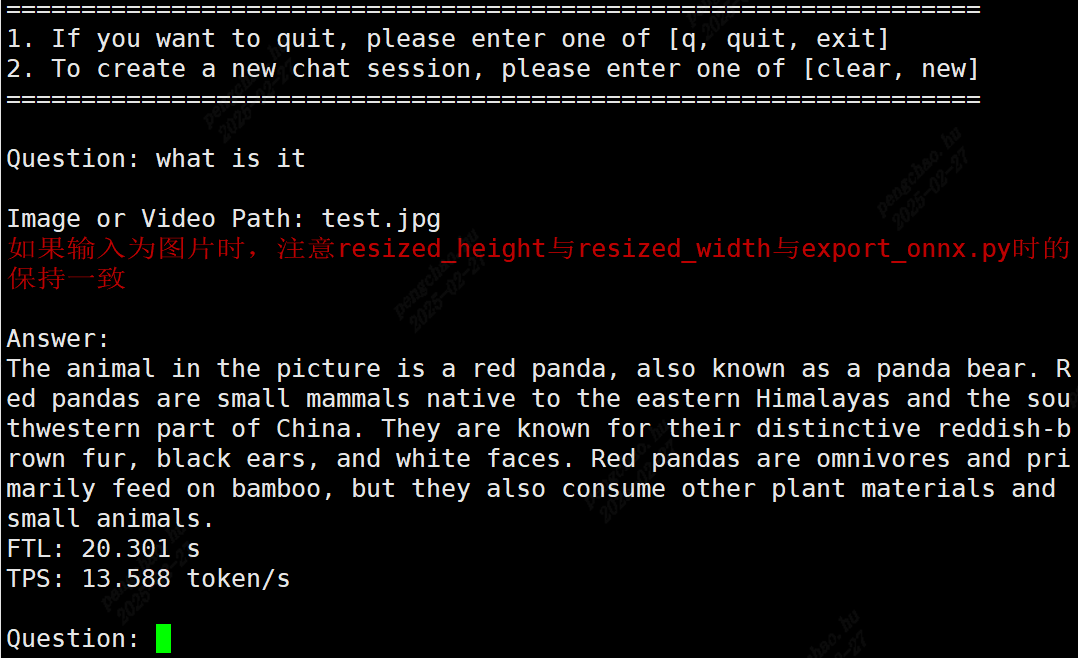
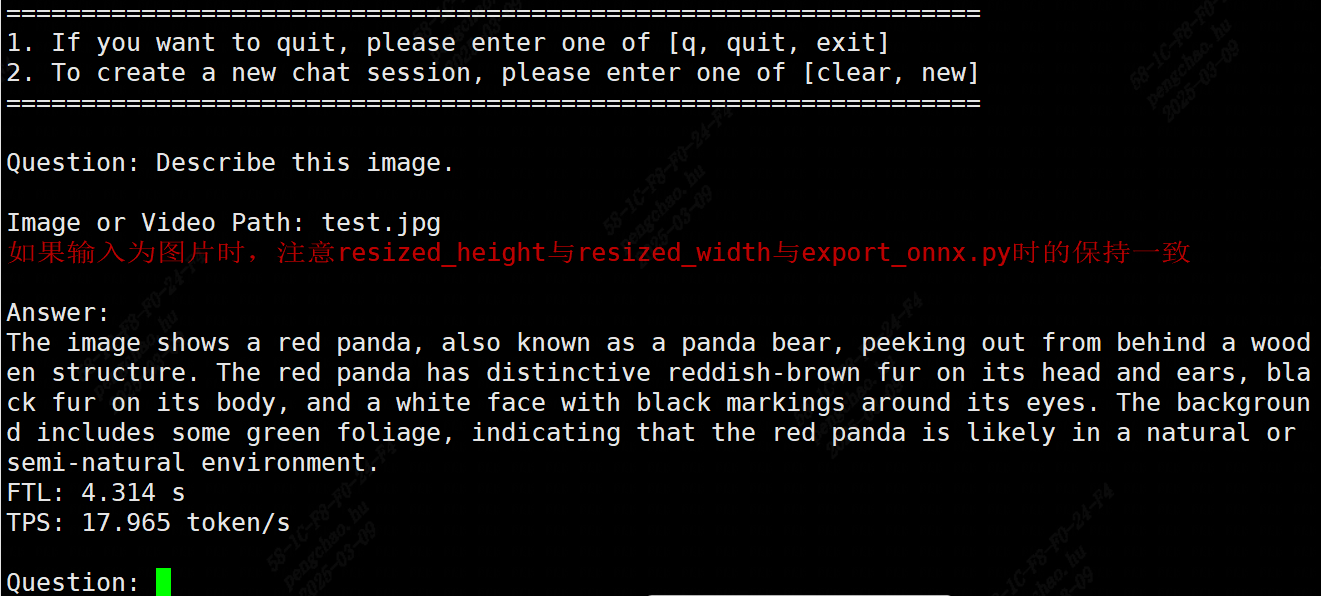
add qwen2.5vl 2k bmodel

diff --git a/models/Qwen2_5_VL/python_demo/pipeline.py b/models/Qwen2_5_VL/python_demo/pipeline.py
@@ -20,8 +20,8 @@ class Qwen2VL():
         self.tokenizer = self.processor.tokenizer
         with open(config_file, 'r') as f:
             self.config = json.load(f)
-        self.resized_height = args.resized_height
-        self.resized_width = args.resized_width
+        self.resized_height = args.resize[0]
+        self.resized_width = args.resize[1]
 
         # load model
         self.model = chat.Qwen2VL()
@@ -45,23 +45,38 @@ class Qwen2VL():
         return messages
 
     def image_message(self, path):
-        print("\033[31m如果输入为图片时，注意resized_height与resized_width与export_onnx.py时的保持一致\033[0m")
-        messages = [{
-            "role":
-            "user",
-            "content": [
-                {
-                    "type": "image",
-                    "image": path,
-                    "resized_height": self.resized_height,
-                    "resized_width": self.resized_width,
-                },
-                {
-                    "type": "text",
-                    "text": self.input_str
-                },
-            ],
-        }]
+        if self.resized_height != 0 and self.resized_width != 0:
+            messages = [{
+                "role":
+                "user",
+                "content": [
+                    {
+                        "type": "image",
+                        "image": path,
+                        "resized_height": self.resized_height,
+                        "resized_width": self.resized_width,
+                    },
+                    {
+                        "type": "text",
+                        "text": self.input_str
+                    },
+                ],
+            }]
+        else:
+            messages = [{
+                "role":
+                "user",
+                "content": [
+                    {
+                        "type": "image",
+                        "image": path,
+                    },
+                    {
+                        "type": "text",
+                        "text": self.input_str
+                    },
+                ],
+            }]
         return messages
 
     def video_message(self, path):
@@ -168,7 +183,8 @@ class Qwen2VL():
                     inputs.video_grid_thw.squeeze(0).tolist(), vit_offset, valid_vit_length)
             else:
                 empty = []
-                token = self.model.forward_first(inputs.input_ids.squeeze(0).tolist(), empty, [], 0, 0)
+                token = self.model.forward_first(
+                    inputs.input_ids.squeeze(0).tolist(), empty, [], 0, 0)
             first_end = time.time()
             tok_num = 1
             # Following tokens
@@ -208,13 +224,18 @@ if __name__ == "__main__":
                         type=str,
                         required=True,
                         help='path to the bmodel file')
-    parser.add_argument('-p',
+    parser.add_argument('-c',
                         '--config_path',
                         type=str,
-                        default="../support/processor_config",
+                        default="config",
                         help='path to the processor file')
     parser.add_argument('-d', '--devid', type=int, default=0, help='device ID to use')
-    parser.add_argument('--resized_height', type=int, default=280, help='resized height')
-    parser.add_argument('--resized_width', type=int, default=420, help='resized width')
+    parser.add_argument('-r',
+                        '--resize',
+                        nargs=2,
+                        type=int,
+                        default=[280, 420],
+                        metavar=('HEIGHT', 'WIDTH'),
+                        help='resized height and width, for example: --resize 280 420')
     args = parser.parse_args()
     main(args)

diff --git a/models/Qwen2_5_VL/compile/export_onnx.py b/models/Qwen2_5_VL/compile/export_onnx.py
@@ -205,7 +205,7 @@ def convert_vision_transformer():
     # make input
     x = torch.randn(max_pixels, 1176).to(dtype=torch.float32, device=device)
     position_ids = torch.randn(max_pixels, 2).to(dtype=torch.int32, device=device)
-    attention_mask = torch.zeros([1, max_pixels, max_pixels], device=device, dtype=torch.float32)
+    attention_mask = torch.zeros([1, 1, max_pixels, max_pixels], device=device, dtype=torch.float32)
 
     # export onnx
     model = VisionTransformer()
@@ -371,7 +371,7 @@ def vit_launch(pixel_values, grid_thw):
     vit_infer = VisionTransformer()
     cu_seqlens = [h * w * i for i in range(t+1)]
     attention_mask = torch.full(
-        [1, pixel_values.shape[0], pixel_values.shape[0]], -10000, device=device, dtype=torch.float32
+        [1, 1, pixel_values.shape[0], pixel_values.shape[0]], -10000, device=device, dtype=torch.float32
     )
     for i in range(1, len(cu_seqlens)):
         attention_mask[..., cu_seqlens[i - 1] : cu_seqlens[i], cu_seqlens[i - 1] : cu_seqlens[i]] = 0
@@ -561,7 +561,7 @@ if __name__ == "__main__":
     parser.add_argument('-m', '--model_path', type=str, help='path to the torch model')
     parser.add_argument('-d', '--device', type=str, choices=["cpu", "cuda"], default="cpu")
     parser.add_argument('-b', '--batch_size', type=int, default=1, help='batch size')
-    parser.add_argument('-s', '--seq_length', type=int, default=8192, help="sequence length")
+    parser.add_argument('-s', '--seq_length', type=int, default=2048, help="sequence length")
     parser.add_argument('-i', '--vision_length', type=int,default=600, help="vision_length = max_image_width // patch_size * max_image_height // patch_size")
     parser.add_argument('-n', '--num_threads', type=int, default=1, help='The number of threads used for torch if device is cpu')
     args = parser.parse_args()

diff --git a/models/Qwen2_5_VL/README.md b/models/Qwen2_5_VL/README.md
@@ -2,6 +2,16 @@
 
 本工程实现BM1684X部署多模态大模型[Qwen2.5-VL](https://huggingface.co/Qwen/Qwen2.5-VL-3B-Instruct)。通过[TPU-MLIR](https://github.com/sophgo/tpu-mlir)编译器将模型转换成bmodel，并采用c++代码将其部署到BM1684X的PCIE环境，或者SoC环境。
 
+
+本文包括如何转换bmodel，和如何在BM1684X环境运行bmodel。如何转换bmodel环节可以省去，直接用以下链接下载：
+
+``` shell
+# 2K版本
+python3 -m dfss --url=open@sophgo.com:/ext_model_information/LLM/LLM-TPU/qwen2.5-vl-3b_w4bf16_seq2048.bmodel
+# 8K版本
+python3 -m dfss --url=open@sophgo.com:/ext_model_information/LLM/LLM-TPU/qwen2.5-vl-3b_w4bf16_seq8192.bmodel
+```
+
 ## 开发环境准备
 
 #### 1. 从Huggingface下载`Qwen2.5-VL-3B-Instruct`
@@ -17,9 +27,10 @@ git clone git@hf.co:Qwen/Qwen2.5-VL-3B-Instruct
 ```
 
 另外需要做一些模型源码上的修改：
-将`compile/files/Qwen2_5-VL-3B-Instruct/`下的文件替换`Qwen2.5-VL-3B-Instruct`中对应的文件。
+1. 修改`Qwen2_5-VL-3B-Instruct`的`config.json`中的`max_position_embeddings`改成想要的长度，比如2048
+2. 将`compile/files/Qwen2_5-VL-3B-Instruct/`中的`modeling_qwen2_5_vl.py`覆盖到transformers中，如下：
 ``` shell
-cp files/Qwen2_5-VL-3B-Instruct/modeling_qwen2_5_vl.py /usr/local/lib/python3.10/dist-packages/transformers/models/qwen2_5_vl/modeling_qwen2_5_vl.py
+cp files/Qwen2_5-VL-3B-Instruct/modeling_qwen2_5_vl.py /root/miniconda3/lib/python3.10/site-packages/transformers/models/qwen2_5_vl/modeling_qwen2_5_vl.py
 ```
 
 #### 2. 导出成onnx模型
@@ -29,16 +40,12 @@ cp files/Qwen2_5-VL-3B-Instruct/modeling_qwen2_5_vl.py /usr/local/lib/python3.10
 ``` shell
 # 导出onnx
 cd compile
-python3 export_onnx.py --model_path /path/to/Qwen2_5-VL-3B-Instruct --seq_length 8192
+python3 export_onnx.py --model_path /workspace/Qwen2.5-VL-3B-Instruct --seq_length 2048 --device cuda
 ```
 
 ## 编译模型
 
-此处介绍如何将onnx模型编译成bmodel。也可以省去编译模型这一步，直接下载编译好的模型：
-
-``` shell
-python3 -m dfss --url=open@sophgo.com:/ext_model_information/LLM/LLM-TPU/qwen2.5-vl-3b_w4bf16_seq8192.bmodel
-```
+此处介绍如何将onnx模型编译成bmodel。
 
 #### 1. 下载docker，启动容器
 
@@ -66,10 +73,11 @@ source ./envsetup.sh  #激活环境变量
 
 #### 3. 编译模型生成bmodel
 
-对ONNX模型进行编译，生成模型`qwen2.5-vl-3b_w4bf16_seq8192.bmodel `
+对ONNX模型进行编译，生成模型`qwen2.5-vl-3b_w4bf16_seq2048.bmodel `
 
 ``` shell
-./compile.sh --name qwen2-vl-2b --seq_length 8192
+cd compile
+./compile.sh --name qwen2.5-vl-3b --seq_length 2048
 ```
 
 ## 编译与运行程序
@@ -78,14 +86,14 @@ source ./envsetup.sh  #激活环境变量
 > （python_demo运行之前都需要执行这个）
 ``` shell
 sudo apt-get update
-sudo apt-get install pybind11-dev
+sudo apt-get install python3.10-dev pybind11-dev
 pip3 install torchvision pillow qwen_vl_utils transformers --upgrade
 ```
 
 编译库文件，生成`chat.cpython*.so`文件，将该文件拷贝到`pipeline.py`文件目录
 
 ``` shell
-cd python_demo_video
+cd python_demo
 mkdir build 
 cd build && cmake .. && make && cp *cpython* .. && cd ..
 ```
@@ -93,7 +101,7 @@ cd build && cmake .. && make && cp *cpython* .. && cd ..
 * python demo
 
 ``` shell
-python3 pipeline.py --model_path qwen2.5-vl-3b_w4bf16_seq8192.bmodel --config_path ../support/processor_config 
+python3 pipeline.py --model_path qwen2.5-vl-3b_w4bf16_seq2048.bmodel --config_path ../support/processor_config 
 ```
 model为实际的model储存路径；config_path为配置文件路径
 
@@ -103,9 +111,17 @@ model为实际的model储存路径；config_path为配置文件路径
 
 ## 常见问题
 
+#### 本实例模型如何确保INT4的精度？
+
+为了提高精度，本示例中的模型是从AWQ模型反量化而来。参考项目[llmc-tpu](https://github.com/sophgo/llmc-tpu)，
+在该项目的docker中，经过如下命令转换：
+``` shell
+python3 tpu/llm_dequant.py --pretrained_model_path /workspace/Qwen2.5-VL-3B-Instruct --quant_model_path /workspace/Qwen2.5-VL-3B-Instruct-AWQ --model_type qwen2.5_vl --use_cpu
+```
+
 #### 是否支持Qwen2_5-VL-7B ?
 
 是支持的，步骤基本一致。
 1. 将`files/Qwen2_5-VL-7B`里面的文件替换到`Qwen2_5-VL-7B`中；
 2. 执行`export_onnx.py`指定`Qwen2_5-VL-7B`路径，导出onnx；
-3. 执行`./compile.sh --name qwen2_5-vl-7b`生成模型`qwen2.5-vl-3b_w4bf16_seq8192.bmodel`
+3. 执行`./compile.sh --name qwen2_5-vl-7b`生成模型`qwen2.5-vl-7b_w4bf16_seq2048.bmodel`

diff --git a/README.md b/README.md
@@ -74,6 +74,7 @@
 |:-                           |:-                  |:-                  |:-                                                                        |
 |Qwen-VL-Chat                 |:white\_check\_mark:|                    |[LINK](https://huggingface.co/Qwen/Qwen-VL-Chat)                          |
 |Qwen2-VL-Chat                |:white\_check\_mark:|                    |[LINK](https://huggingface.co/Qwen/Qwen2-VL-2B-Instruct)                  |
+|Qwen2.5-VL-Chat                |:white\_check\_mark:|                    |[LINK](https://huggingface.co/Qwen/Qwen2.5-VL-3B-Instruct)                  |
 |InternVL2-4B                 |:white\_check\_mark:|:white\_check\_mark:|[LINK](https://huggingface.co/OpenGVLab/InternVL2-4B)                     |
 |InternVL2-2B                 |:white\_check\_mark:|:white\_check\_mark:|[LINK](https://huggingface.co/OpenGVLab/InternVL2-2B)                     |
 |Stable Diffusion             |:white\_check\_mark:|                    |[LINK](https://huggingface.co/runwayml/stable-diffusion-v1-5)             |
